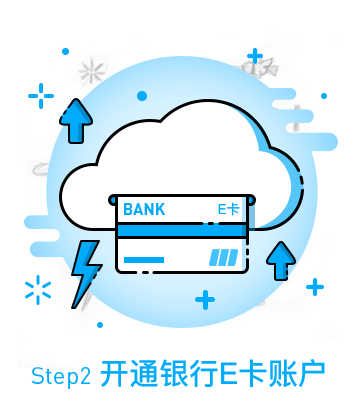
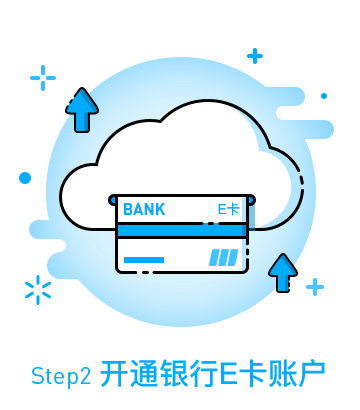
修改文件

diff --git a/src/less/resultPage.less b/src/less/resultPage.less
@@ -59,22 +59,25 @@
       }
 
       &.legend1:after {
[1 lines of base64/hex data omitted]
+        background-image: data-uri('../img/legend-1.png');
       }
       &.legend2:after {
[1 lines of base64/hex data omitted]
+        background-image: data-uri('../img/legend-2.png');
       }
       &.legend3:after {
[1 lines of base64/hex data omitted]
+        background-image: data-uri('../img/legend-3.png');
       }
       &.legend4:after {
[1 lines of base64/hex data omitted]
+        background-image: data-uri('../img/legend-4.png');
       }
       &.legend5:after {
[1 lines of base64/hex data omitted]
+        background-image: data-uri('../img/legend-5.png');
       }
       &.legend6:after {
[1 lines of base64/hex data omitted]
+        background-image: data-uri('../img/legend-6.png');
+      }
+      &.legend7:after {
+        background-image: data-uri('../img/legend-7.png');
       }
     }
 

diff --git a/src/less/bar.less b/src/less/bar.less
@@ -61,7 +61,7 @@
         border-right: @bank-logo-width solid transparent;
         filter: drop-shadow(@bank-logo-reverse-color @bank-logo-width 0);
         background-repeat: no-repeat;
-        background-position: left top;
+        background-position: left @bank-logo-height;
         background-image: data-uri('../img/bank-logo.png');
       }
 
@@ -274,4 +274,59 @@
 .sidebar-fixed .page-content,
 .sidebar-through .page-content {
   padding-left: @sidebar-width;
+}
+
+html.bohai .bank-logo i {
+  background-position: left 0 !important;
+}
+html.guangfa .bank-logo i {
+  background-position: left -@bank-logo-height  * 1 !important;
+}
+html.hengfeng .bank-logo i {
+  background-position: left -@bank-logo-height  * 2 !important;
+}
+html.huaxia .bank-logo i {
+  background-position: left -@bank-logo-height  * 3 !important;
+}
+html.jiaotong .bank-logo i {
+  background-position: left -@bank-logo-height  * 4 !important;
+}
+html.chongqingnongcunshangye .bank-logo i {
+  background-position: left -@bank-logo-height  * 5 !important;
+}
+html.pingan .bank-logo i {
+  background-position: left -@bank-logo-height  * 6 !important;
+}
+html.pufa .bank-logo i {
+  background-position: left -@bank-logo-height  * 7 !important;
+}
+html.xingye .bank-logo i {
+  background-position: left -@bank-logo-height  * 8 !important;
+}
+html.zhaoshang .bank-logo i {
+  background-position: left -@bank-logo-height  * 9 !important;
+}
+html.zheshang .bank-logo i {
+  background-position: left -@bank-logo-height  * 10 !important;
+}
+html.gongshang .bank-logo i {
+  background-position: left -@bank-logo-height  * 11 !important;
+}
+html.guangda .bank-logo i {
+  background-position: left -@bank-logo-height  * 12 !important;
+}
+html.jianshe .bank-logo i {
+  background-position: left -@bank-logo-height  * 13 !important;
+}
+html.minsheng .bank-logo i {
+  background-position: left -@bank-logo-height  * 14 !important;
+}
+html.nongye .bank-logo i {
+  background-position: left -@bank-logo-height  * 15 !important;
+}
+html.zhongguo .bank-logo i {
+  background-position: left -@bank-logo-height  * 16 !important;
+}
+html.zhongxin .bank-logo i {
+  background-position: left -@bank-logo-height  * 17 !important;
 }

diff --git a/src/js/toast.js b/src/js/toast.js
@@ -36,7 +36,7 @@
       left: '50%',
       transform: 'translate(-50%, -50%) scale(1.3)',
       opacity: 0,
-      transition: 'all .5s',
+      transition: 'all .3s',
       zIndex: 99999,
       letterSpacing: '2px',
       padding: '0 1.5em',
@@ -51,18 +51,16 @@
     this.bound.appendTo(this.config.target);
     this.bound[0].offsetWidth;
 
-    setTimeout(function() {
-      self.bound.css({
-        transform: 'translate(-50%, -50%) scale(1)',
-        opacity: 1,
-      });
-      self.bound.one('webkitTransitionEnd mozTransitionEnd MSTransitionEnd oTransitionend transitionend', function(){
-        if (!isInit) {
-          isInit = true;
-          self.fire('init');
-        }
-      });
-    }, 0);
+    self.bound.css({
+      transform: 'translate(-50%, -50%) scale(1)',
+      opacity: 1,
+    });
+    self.bound.one('webkitTransitionEnd mozTransitionEnd MSTransitionEnd oTransitionend transitionend', function(){
+      if (!isInit) {
+        isInit = true;
+        self.fire('init');
+      }
+    });
 
     setTimeout(function() {
       self.bound.css({
@@ -101,6 +99,10 @@
     }
   }
 
-  window.Toast = Toast;
+  window.Toast = window.toast = Toast;
+
+  $.extend({
+    toast: Toast
+  });
 
 })();

diff --git a/src/html/index.html b/src/html/index.html
@@ -5,7 +5,7 @@
   <meta name="viewport" content="width=device-width,initial-scale=1,maximum-scale=1,minimum-scale=1,user-scalable=no">
   <title>Document</title>
   <link rel="stylesheet" href="../dist/css/vendor.min.css">
-  <link rel="stylesheet" href="../dist/css/esp.min.css">
+  <link rel="stylesheet" href="../dist/css/esp.css">
 </head>
 <body>
   
@@ -20,7 +20,7 @@
           <!-- left -->
           <div class="left">
             <div class="logo"><i></i></div>
-            <div class="bank-logo xingye"><i></i></div>
+            <div class="bank-logo"><i></i></div>
           </div>
           <!-- /left -->
         </div>

diff --git a/gulpfile.js b/gulpfile.js
@@ -72,9 +72,9 @@ gulp.task('less', () => {
                browsers: ['> 0.01%']
               }))
              .pipe(minifyCSS())
-             .pipe(rename({
-               suffix: '.min'
-             }))
+             // .pipe(rename({
+             //   suffix: '.min'
+             // }))
              // .pipe(sourcemap.write('.'))
              .pipe(gulp.dest('./dist/css'))
              .pipe(connect.reload());

diff --git a/src/less/iconfont.less b/src/less/iconfont.less
@@ -9,7 +9,7 @@
 }
 
 @font-face {
-  font-family: 'DINPro-Regular';
+  font-family: 'DIN-Regular';
   src: url('@{icon-font-path}/DINPro-Regular/DINPro-Regular.eot');
   src:
     url('@{icon-font-path}/DINPro-Regular/DINPro-Regular.eot?#font-spider') format('embedded-opentype'),
@@ -53,7 +53,7 @@
   font-style: normal;
 }
 
-.DINPro-Regular {
+.DIN-Regular {
     font-family: 'DINPro-Regular';
 }
 .DIN-Medium {

diff --git a/src/less/variables.less b/src/less/variables.less
@@ -23,7 +23,7 @@
 
 /* ========== scaffolding ========== */
 
-@font-family-base : "DINPro-Regular", "Microsoft YaHei", "Helvetica Neue", Helvetica, Arial, sans-serif;
+@font-family-base : "Microsoft YaHei", "Helvetica Neue", Helvetica, Arial, sans-serif;
 @font-size-base   : 24px;
 @line-height-base : 1.666666666666667; // 40
 @font-size-h1     : floor((@font-size-base * 2));    // ~48px

diff --git a/src/less/form.less b/src/less/form.less
@@ -10,7 +10,7 @@
   > input[type=password] {
     background: transparent;
     font-size: 42px;
-    padding: 9px 10px 9px 76px;
+    padding: 5px 10px 6px 76px;
     border: none;
     line-height: 1;
     width: 100%;
